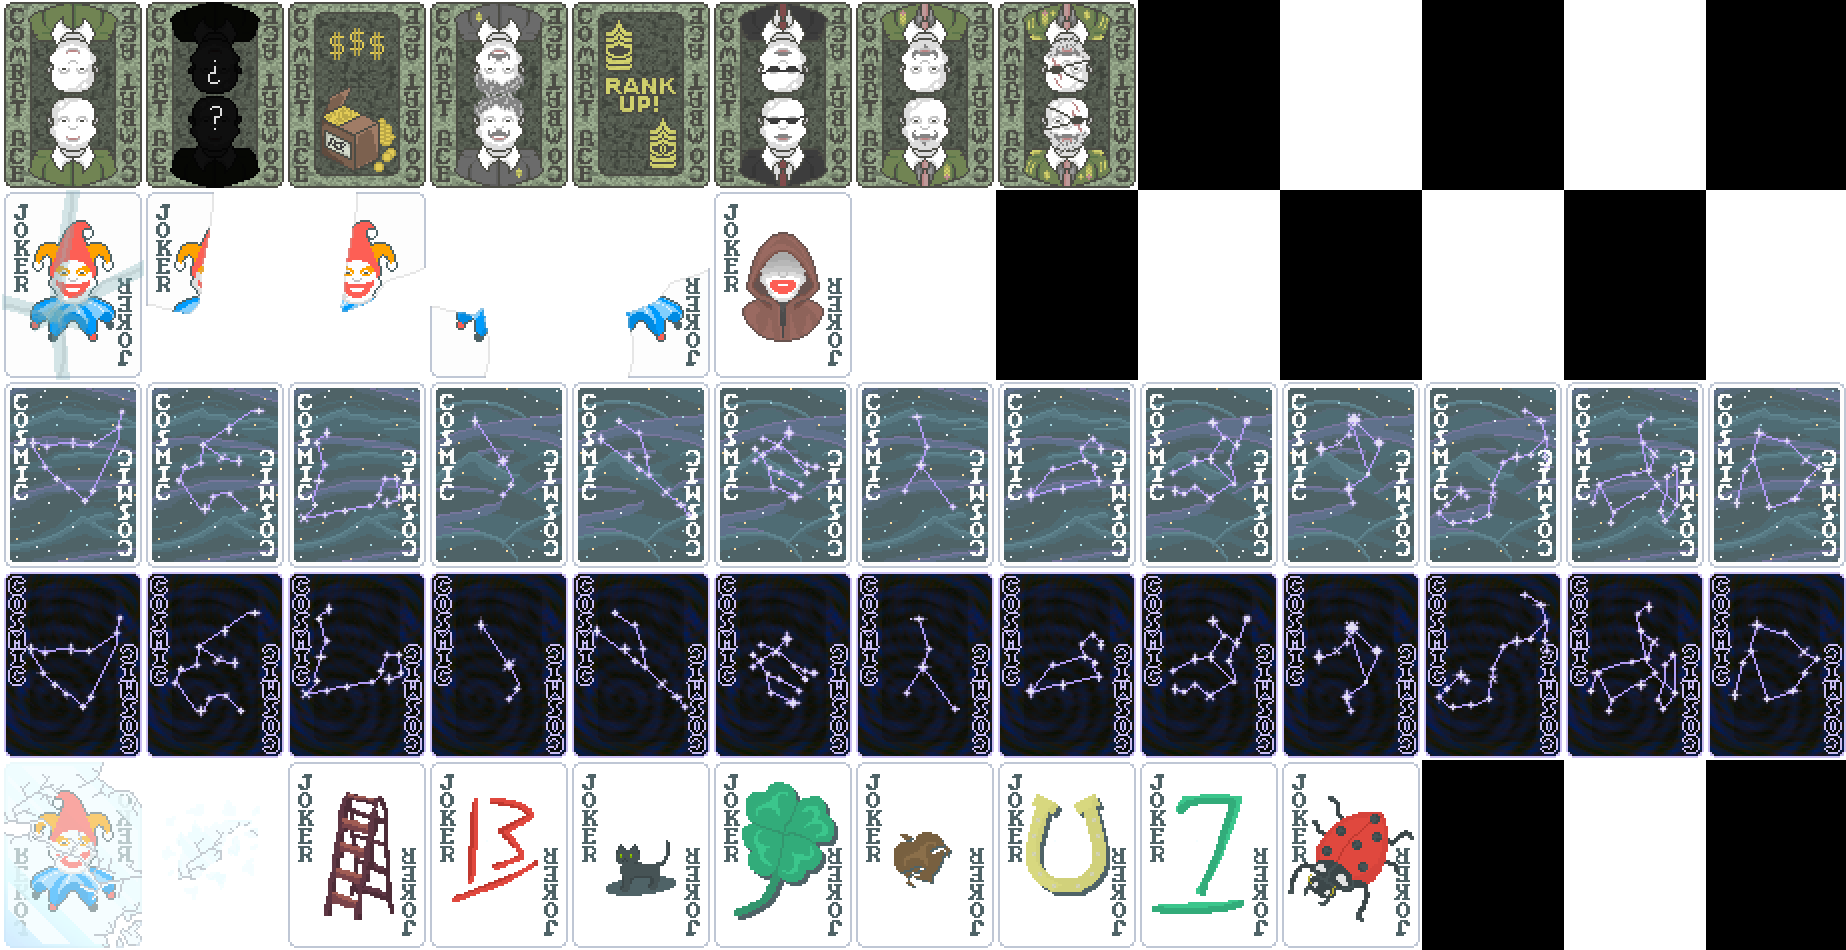
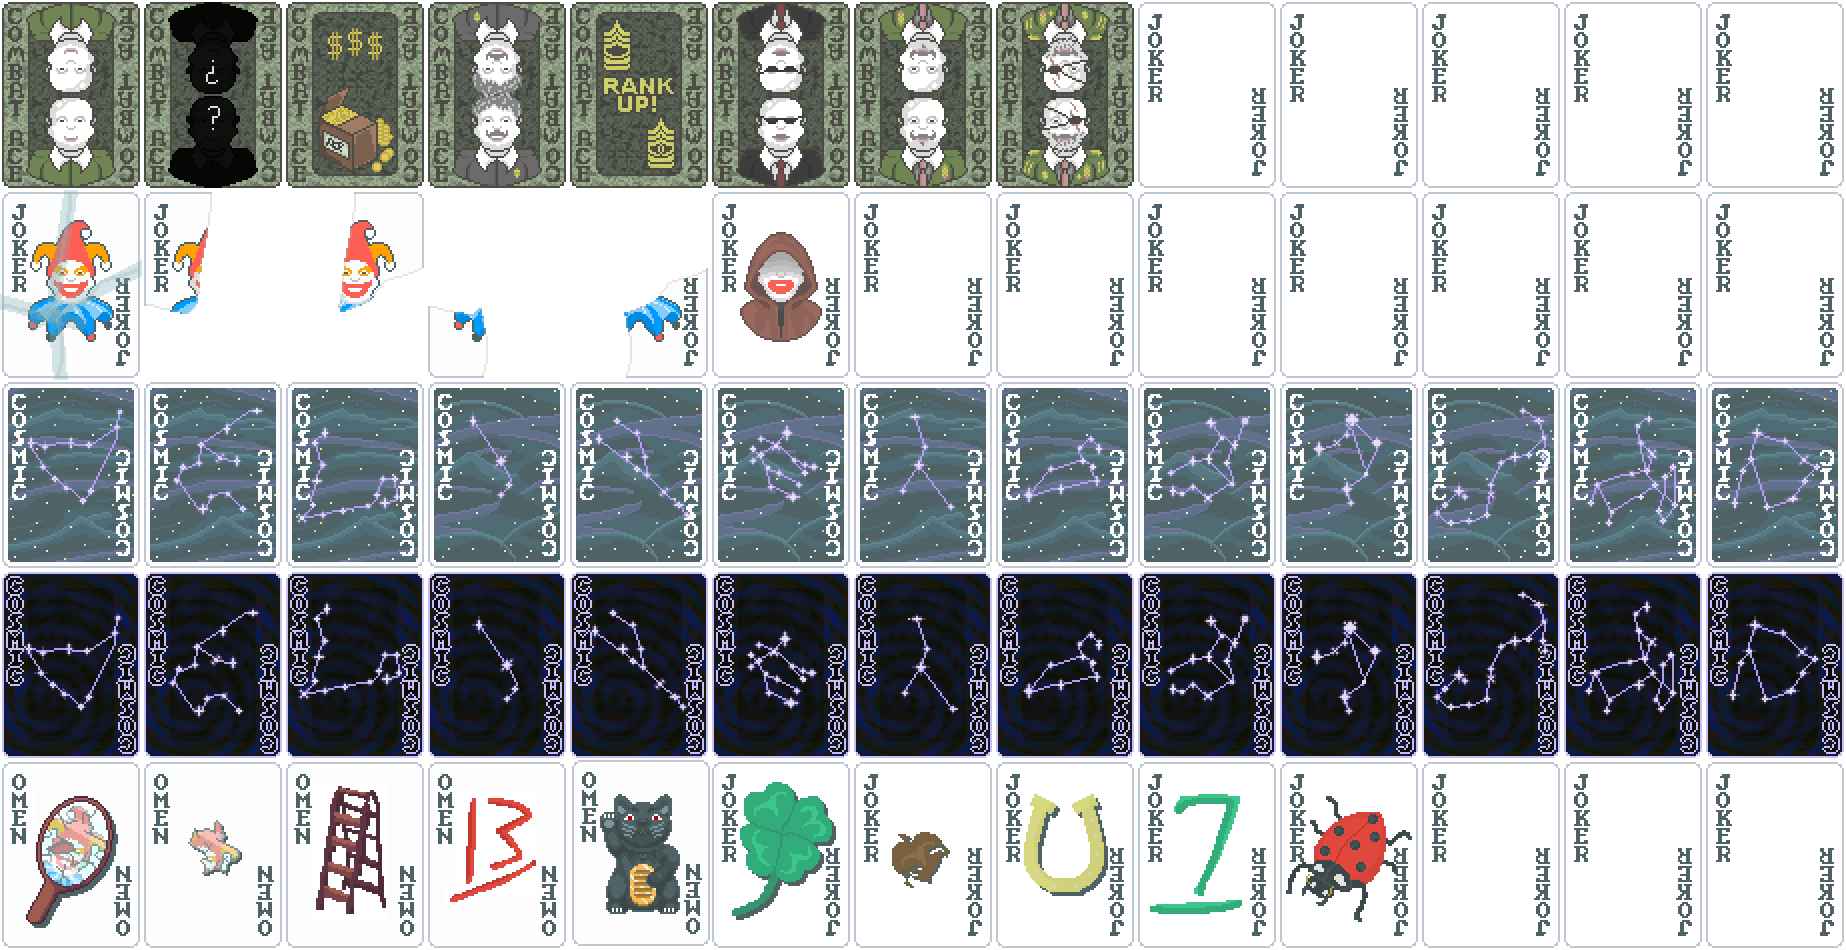
Update 0.8

Changed region(s): [[0.0, 0.0, 1.0, 1.0], [0.1853, 0.2442, 0.2161, 0.3358], [0.247, 0.3358, 0.2779, 0.3663]]

diff --git a/readme.md b/readme.md
@@ -1,8 +1,8 @@
 # Blizzow's Themed Jokers<br>
 ## Jokers that may or may not synergize together<br>
 
-**Current Version: 0.7**<br>
-**Currently adds 27 Jokers**<br>
+**Current Version: 0.8**<br>
+**Currently adds 33 Jokers**<br>
 **Currently adds 5 Tarots**<br>
 **Currently adds 3 Decks**<br>
 
@@ -20,6 +20,10 @@ Cosmics collect Tokens on their jokers to boost them<br>
 # Theme 3:(6/6) **The Mischievous One**!<br>
 Based around the Pieces of the Mischievous One<br>
 The Jokers get a boost for each other and can get strong if you get them early<br>
+
+# Theme 4:(6/X WIP) **Omen**!<br>
+Collect Karma to influence the outcome of these chance based<br>
+Jokers. Some Jokers may benefit from you bad luck.<br>
 
 You can preview the cards here:<br>
 [Themed Jokers](https://blizzowx.github.io/)
